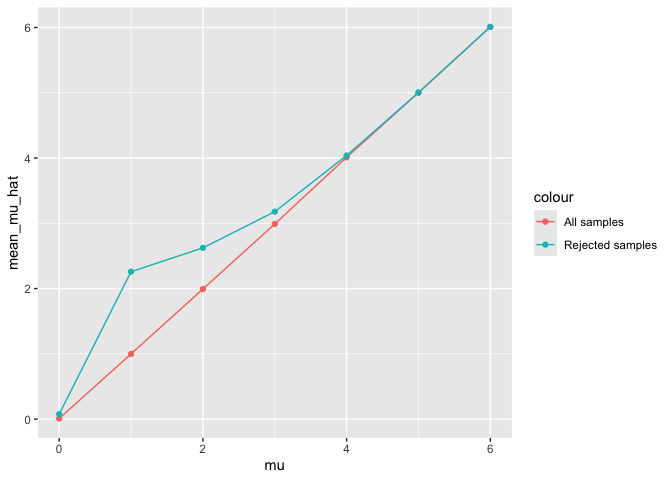
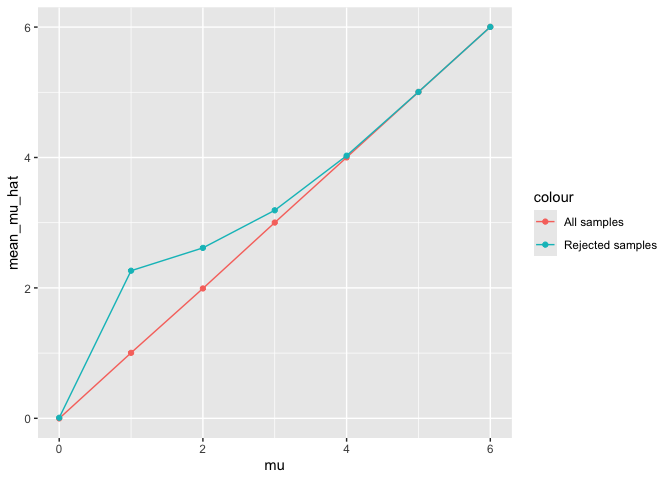
problem 3

diff --git a/p8105_hw5_yz5248.md b/p8105_hw5_yz5248.md
@@ -91,13 +91,13 @@ sim_results_df
     ## # A tibble: 7 × 4
     ##      mu  power mean_mu_hat mean_mu_hat_reject
     ##   <int>  <dbl>       <dbl>              <dbl>
-    ## 1     0 0.0478      0.0102             0.0756
-    ## 2     1 0.183       0.998              2.26  
-    ## 3     2 0.557       1.99               2.62  
-    ## 4     3 0.887       2.99               3.18  
-    ## 5     4 0.988       4.01               4.04  
-    ## 6     5 0.999       5.00               5.00  
-    ## 7     6 1           6.01               6.01
+    ## 1     0 0.0486    -0.00174            0.00831
+    ## 2     1 0.186      1.00               2.26   
+    ## 3     2 0.560      1.99               2.61   
+    ## 4     3 0.889      3.00               3.19   
+    ## 5     4 0.989      4.00               4.03   
+    ## 6     5 1.00       5.00               5.01   
+    ## 7     6 1.00       6.00               6.00
 
 ## plot 1
 
@@ -125,3 +125,40 @@ estimate_mu
 ```
 
 ![](p8105_hw5_yz5248_files/figure-gfm/unnamed-chunk-8-1.png)<!-- -->
+
+# Problem 3
+
+``` r
+homicides_df = read_csv("homicide-data.csv")
+```
+
+    ## Rows: 52179 Columns: 12
+    ## ── Column specification ────────────────────────────────────────────────────────
+    ## Delimiter: ","
+    ## chr (9): uid, victim_last, victim_first, victim_race, victim_age, victim_sex...
+    ## dbl (3): reported_date, lat, lon
+    ## 
+    ## ℹ Use `spec()` to retrieve the full column specification for this data.
+    ## ℹ Specify the column types or set `show_col_types = FALSE` to quiet this message.
+
+The dataset contains variables: “uid”, “reported_date”, “victim_last”,
+“victim_first”, “victim_race”, “victim_age”, “victim_sex”, “city”,
+“state”, “lat”, “lon”, “disposition”
+
+``` r
+city_state = homicides_df |>
+  mutate(
+    city_state = str_c(city, ", ", state),
+    unsolved = if_else(
+      disposition %in% c("Closed without arrest", "Open/No arrest"),
+      1, 0
+    )
+  ) |>
+  group_by(city_state) |>
+  summarise(
+    total_homicides = n(),
+    unsolved_homicides = sum(unsolved),
+    .groups = "drop"
+  ) |>
+  view()
+```
